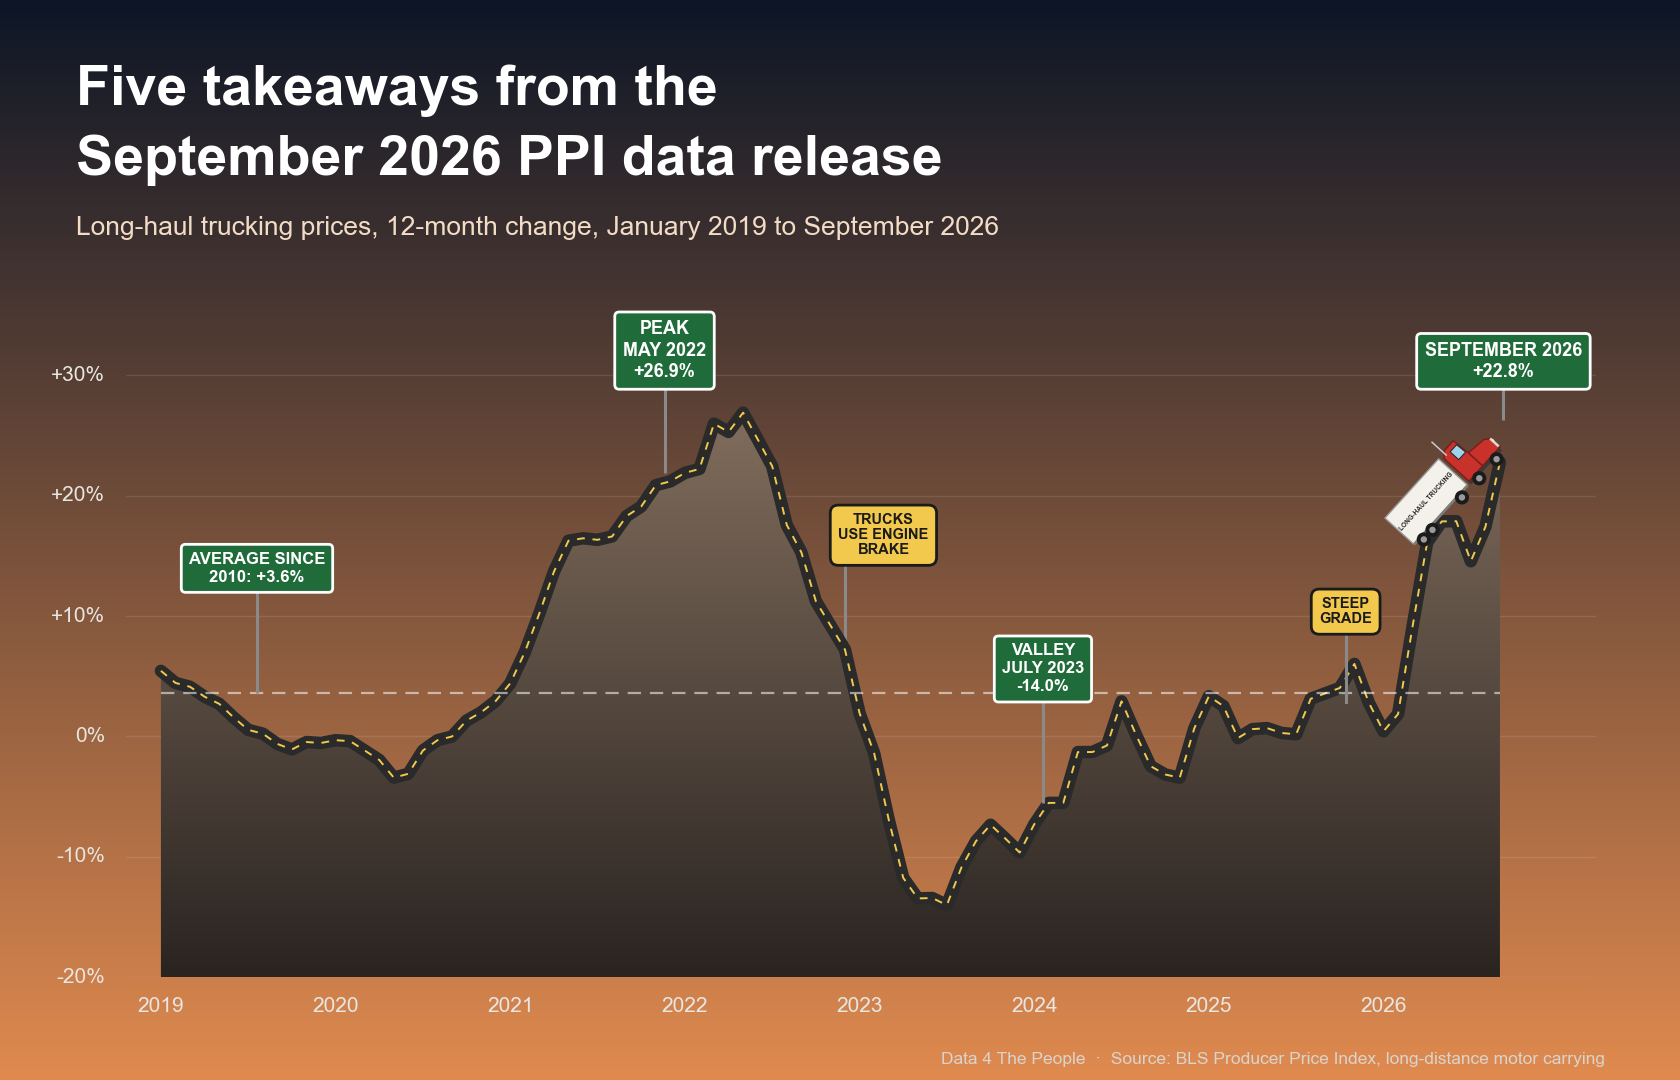
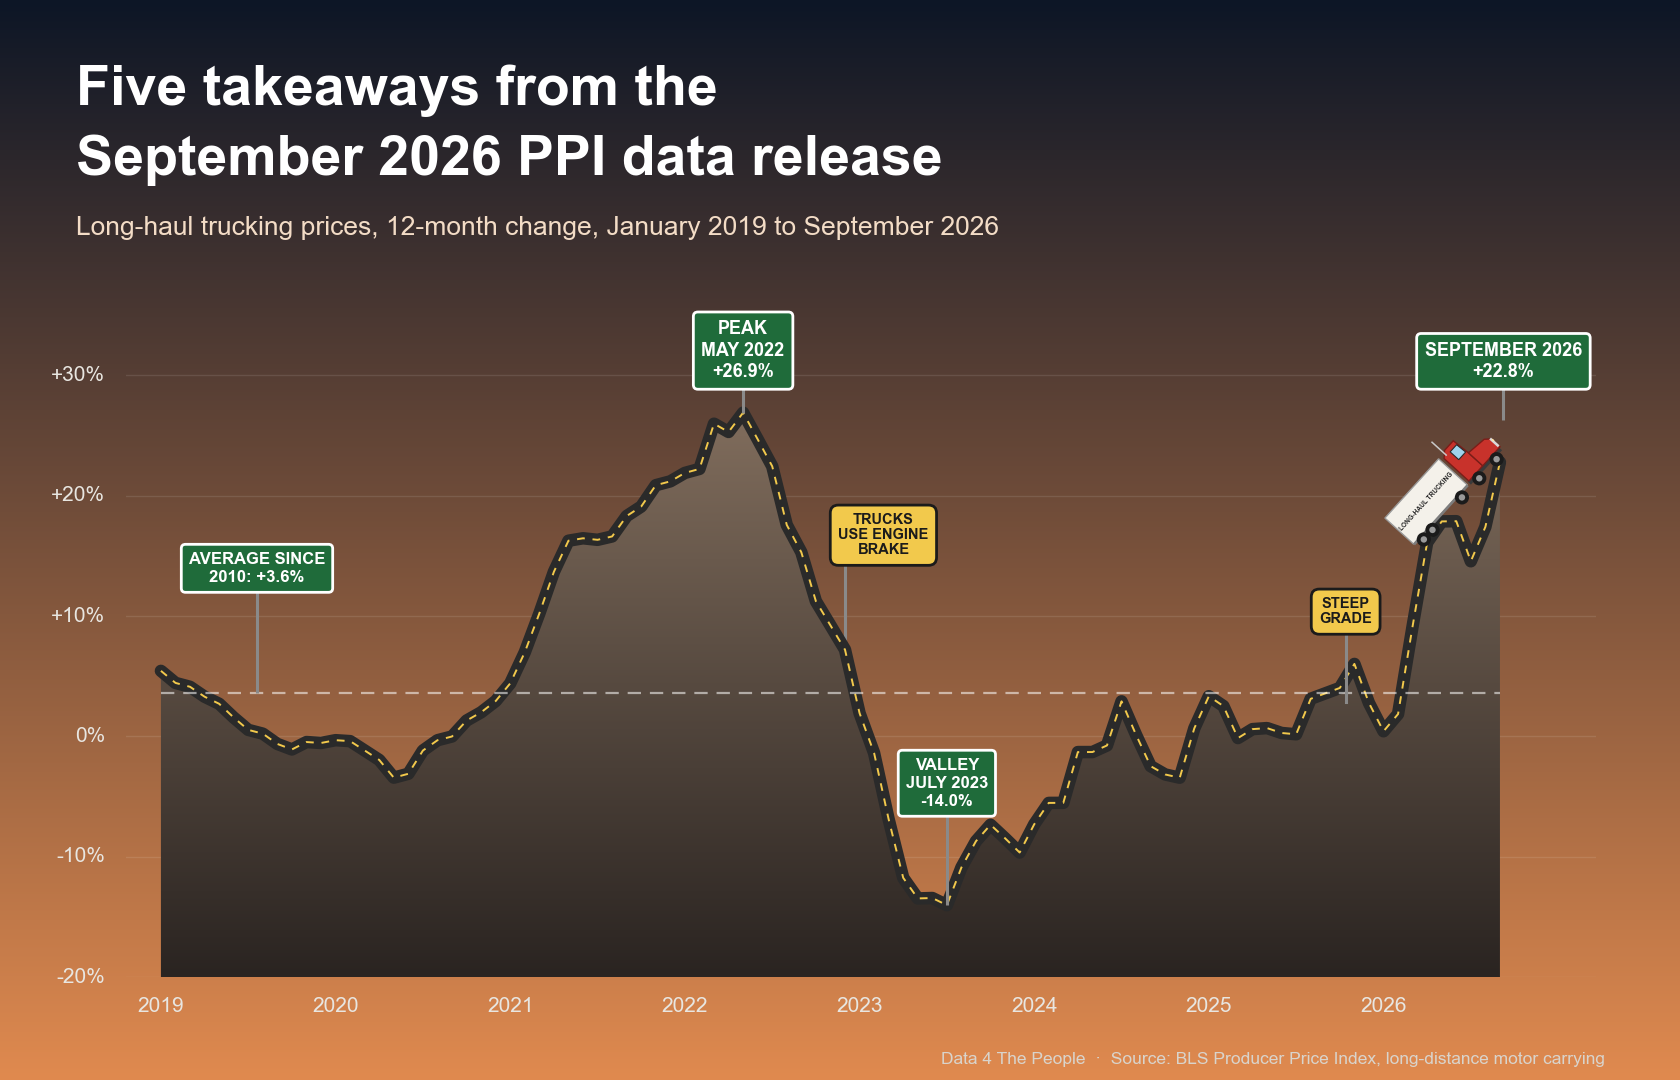
ppi-september-2026: hero peak and valley signs on their months; Prismic hero replaced

Changed region(s): [[0.3405, 0.275, 0.4952, 0.3667], [0.5262, 0.6722, 0.619, 0.7639], [0.5881, 0.5806, 0.65, 0.6722]]

diff --git a/scripts/hero_trucking.py b/scripts/hero_trucking.py
@@ -141,10 +141,10 @@ def main():
 
     # Signs, each carrying a real value from the series.
     i_pk = int(ys.argmax())
-    sign(ax, xs[i_pk] - 0.45, ys[i_pk - 4], 29.5,
+    sign(ax, xs[i_pk], ys[i_pk], 29.5,                     # pole stands on the peak month
          ["PEAK", f"{month_label(months[i_pk]).upper()}", f"{ys[i_pk]:+.1f}%"])
     i_lo = int(np.argmin(np.where(np.array([m.startswith("2023") for m in months]), ys, 99)))
-    sign(ax, xs[i_lo] + 0.55, ys[i_lo + 7], ys[i_lo + 7] + 9,
+    sign(ax, xs[i_lo], ys[i_lo], -6,                       # pole stands on the low month
          ["VALLEY", f"{month_label(months[i_lo]).upper()}", f"{ys[i_lo]:+.1f}%"], fs=12)
     sign(ax, 2019.55, avg, avg + 9, ["AVERAGE SINCE", f"{first[:4]}: {avg:+.1f}%"], fs=12)
     sign(ax, xs[-1] + 0.02, ys[-1] + 3.5, 29.5, [month_label(MONTH).upper(), f"{ys[-1]:+.1f}%"], fc="#1F6B3A")

diff --git a/STATUS.md b/STATUS.md
@@ -75,3 +75,4 @@ None.
 - 2026-10-20 Step 2f confirmed by Eric.
 - 2026-10-20 Step 2g opened.
 - 2026-10-20 Step 2g confirmed by Eric. Post ppi-september-2026 complete.
+- 2026-10-20 After completion, per Eric: hero peak and valley sign poles moved onto May 2022 and July 2023; email JPG re-exported; Prismic draft hero replaced.
